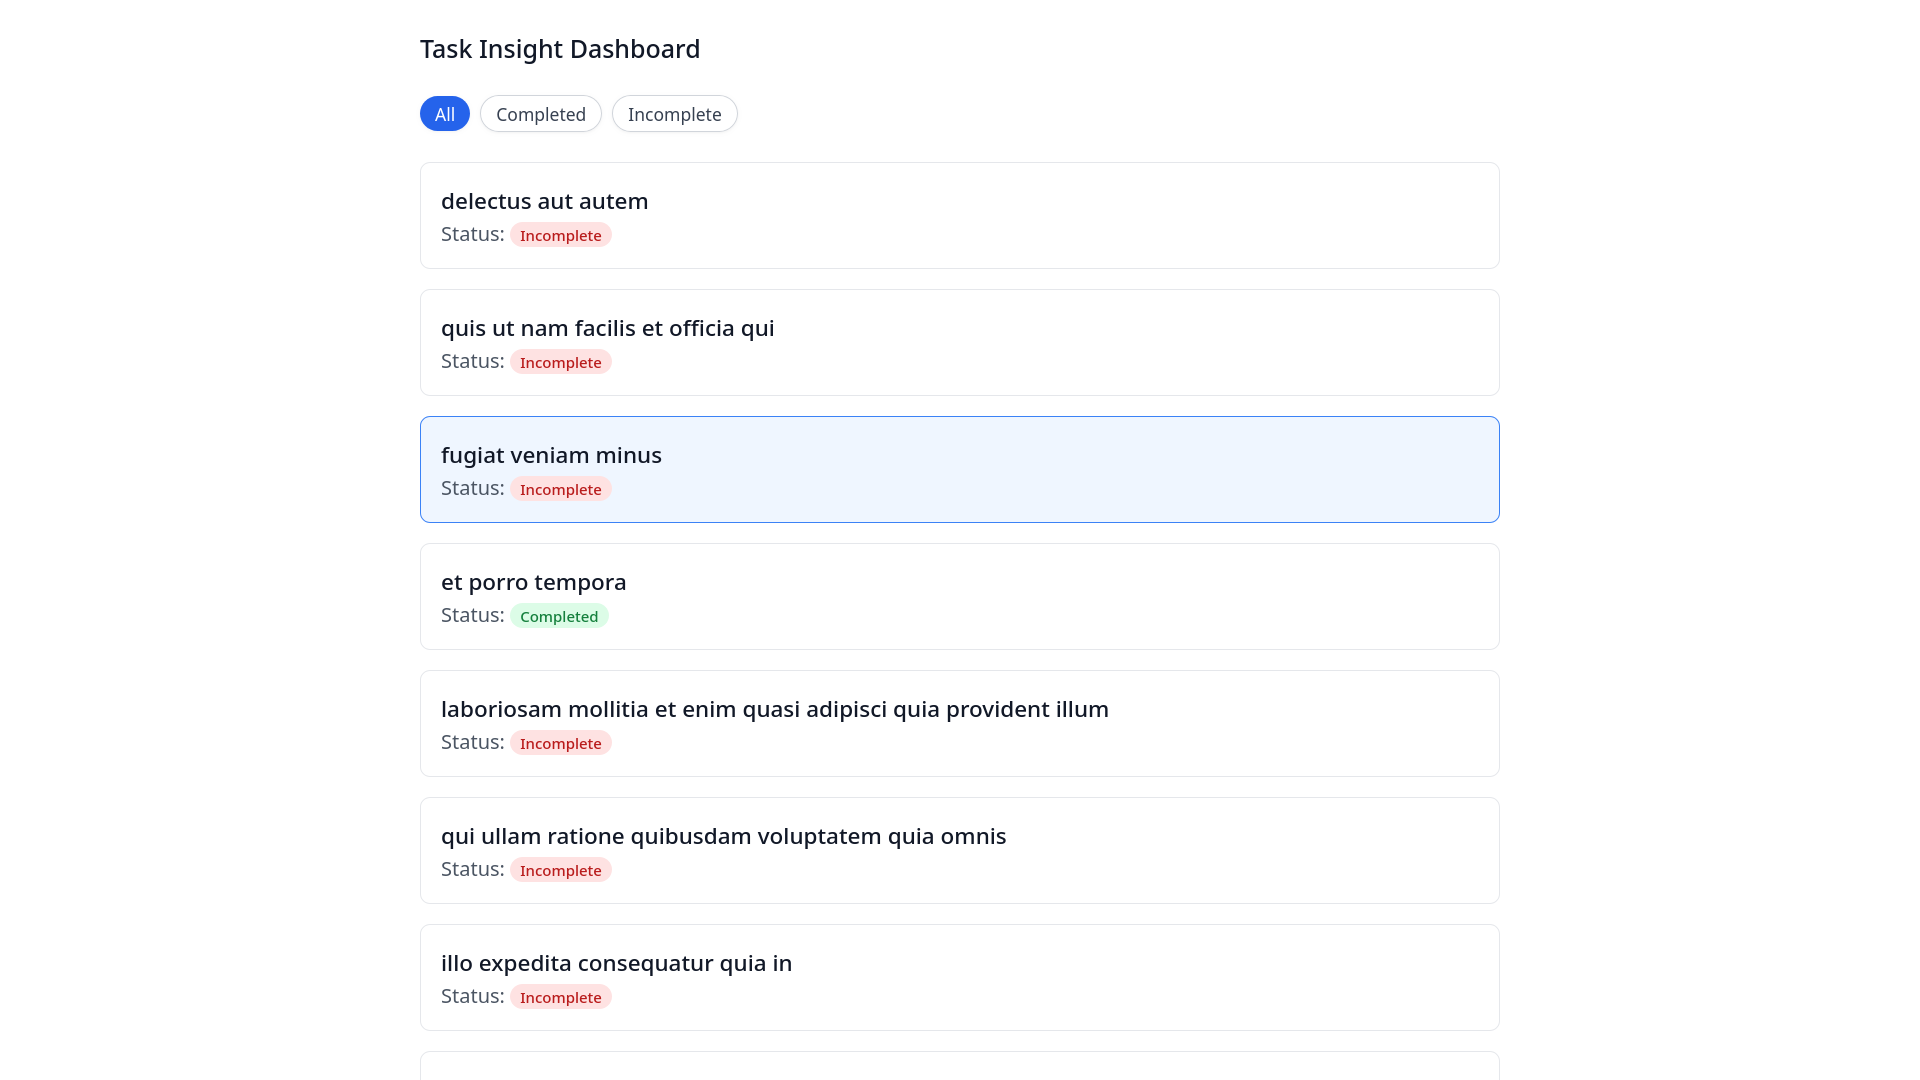
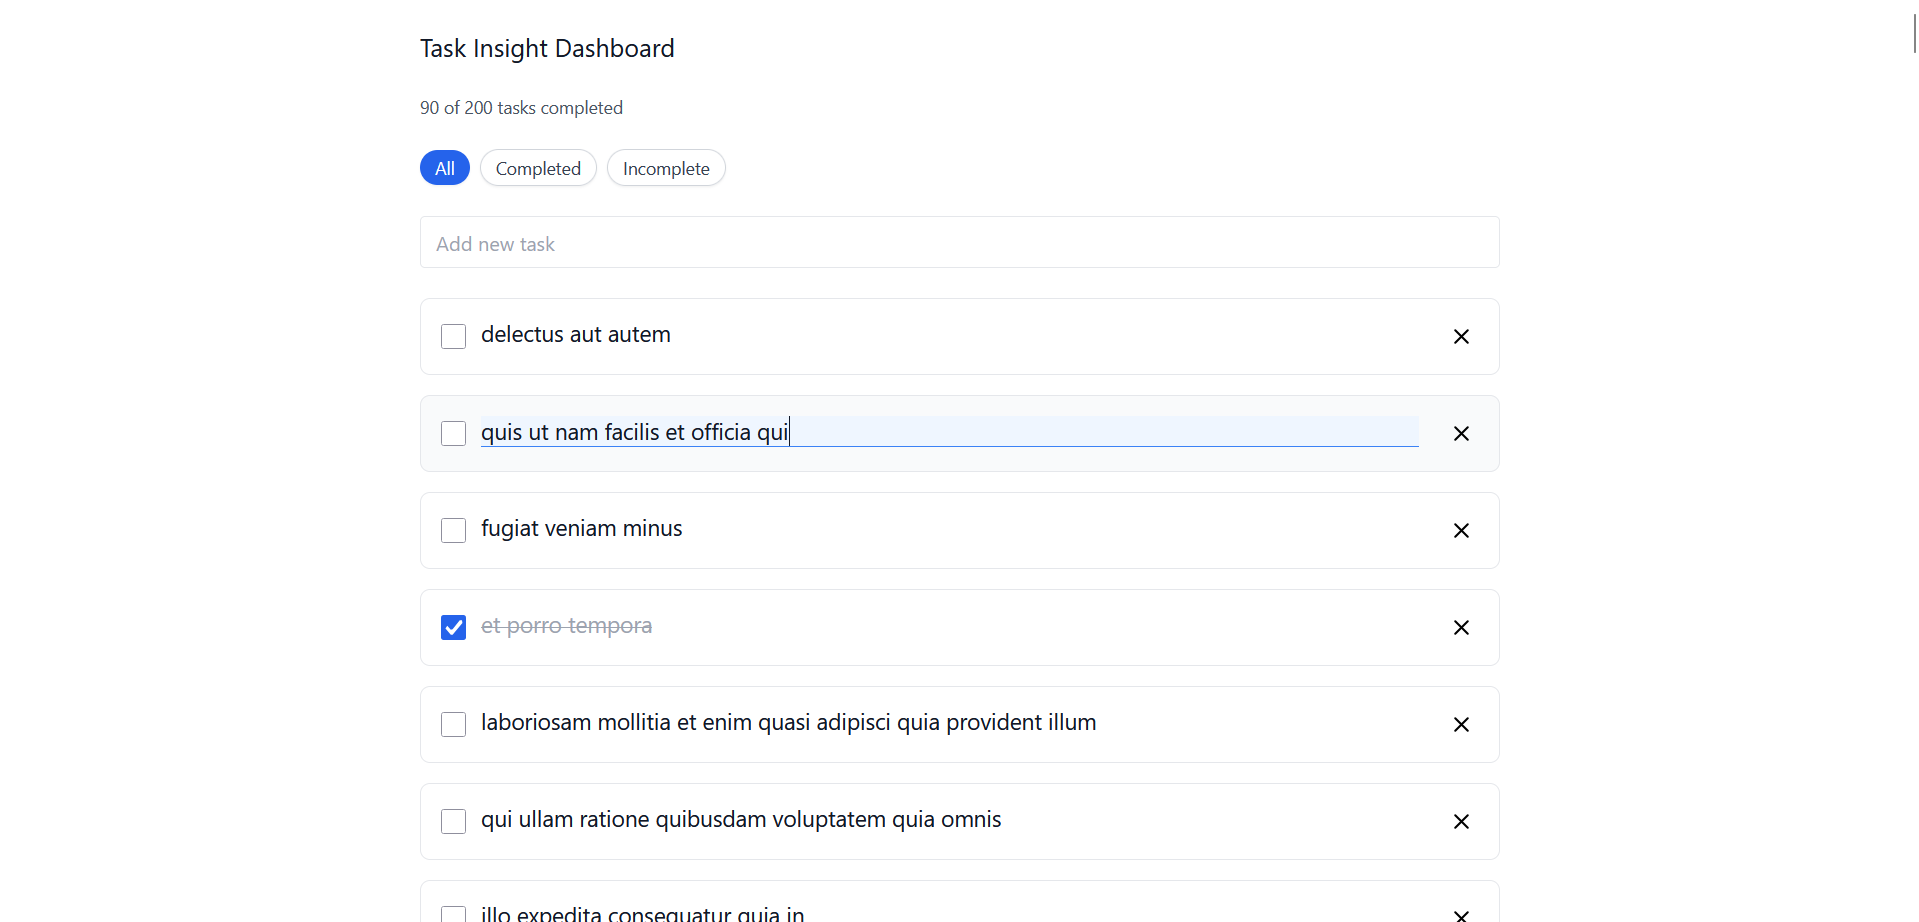
docs: update README to reflect full CRUD, TypeScript migration, and TDD features

diff --git a/README.md b/README.md
@@ -1,67 +1,173 @@
 # Task Insight Dashboard
-A React dashboard for viewing and filtering tasks, with persistent filter selection and a responsive layout.
 
-## Motivation
-My motivation was to build a React app from the ground up, practicing reusable component design, React workflows, and Tailwind CSS styling. This project helped strengthen my front-end development skills through a small but complete application.
+React • TypeScript • Tailwind CSS • Vitest • React Testing Library
 
-## Features
-- Fetches a list of tasks from a public example API for developers.
-- Filter tasks by completion status (All / Completed / Incomplete).
-- Persist the selected task filter across page reloads using localStorage.
-- Responsive layout that adapts to different screen sizes using Tailwind CSS.
+A responsive task management dashboard built with **React, TypeScript, and Tailwind CSS**.
+The application allows users to add, edit, delete, and filter tasks while tracking completion progress in a clean, accessible interface.
 
-## Tech Stack
-- React (Functional Components, Hooks)
-- JavaScript (ES6+)
-- HTML5 & CSS3
-- Tailwind CSS
-- LocalStorage for state persistence
-- Fetch API for retrieving tasks
-- Vitest & React Testing Library for testing
-
-## Project Structure
-- `src/components/` – contains components like `TaskFilter`, `TaskCard`, and `TaskList`
-- `src/tests/` – global test setup (`setup.js`)
-- `App.jsx` – root component
-- `App.test.jsx` – main test suite for the App component
-- `main.jsx` – application entry point
-
-## Demo
-Check out the live demo: [Task Insight Dashboard Live](https://task-insight-dashboard.netlify.app/)
+**Live Demo:**
+https://task-insight-dashboard.netlify.app/
 
 ![Task Insight Dashboard Screenshot](assets/screenshot.png)
+
 *Responsive layout adapts to different screen sizes.*
+
+## Features
+
+* Fetches an initial list of tasks from a public example API for developers.
+* Add new tasks.
+* Edit task titles inline.
+* Delete tasks.
+* Toggle task completion.
+* Filter tasks by completion status (All / Completed / Incomplete).
+* Persist the selected task filter across page reloads using `localStorage`.
+* Responsive layout that adapts to different screen sizes using Tailwind CSS.
+* Accessible UI using ARIA attributes.
+## Tech Stack
+
+### Frontend
+
+* **React** (Functional Components, Hooks)
+* **TypeScript**
+* **Vite**
+
+### Styling
+
+* **Tailwind CSS**
+
+### Testing
+
+* **Vitest**
+* **React Testing Library**
+
+### Data & APIs
+
+* **Fetch API**
+* **JSONPlaceholder API** *(used to load example tasks on initial app load)*
+
+### Browser Storage
+
+* **LocalStorage** for persisting UI state
+
+## Motivation
+
+My goal with this project was to build a React application from the ground up while practicing **component-based architecture, modern React workflows, and utility-first styling with Tailwind CSS**.
+
+As the project evolved, I expanded it by adding **TypeScript for type safety**, implementing **CRUD functionality**, and strengthening the codebase with **testing using Vitest and React Testing Library**.
+
+This project represents a small but complete front-end application that demonstrates modern React development practices.
+
+## Project Structure
+
+* `src/components/` – reusable UI components (`TaskCard`, `TaskList`, `TaskFilter`, `AddTask`)
+* `src/types.ts` – shared TypeScript types and domain models
+* `src/tests/` – test setup and test utilities
+* `App.tsx` – root application component
+* `App.test.jsx` – main test suite for the App component
+* `main.tsx` – application entry point
 
 ## Installation
 
 ### Prerequisites
-- Node.js 22.20  
+
+* Node.js 22.20
   (Recommended: install via [nvm](https://github.com/nvm-sh/nvm))
 
 ### Steps
-1. Clone the repo: `git clone https://github.com/khanm3/task-insight-dashboard.git`
-2. `cd task-insight-dashboard`
-3. Use the correct Node version: `nvm use`
-4. Install dependencies: `npm install`
-5. Start the app: `npm run dev`
 
-## Running Tests
-- Run all tests: `npm test`
-- Includes tests for task filter functionality and persistence across page reloads.
-- One feature (task filter persistence) was developed using Test-Driven Development (TDD) principles.
+1. Clone the repository:
+
+```
+git clone https://github.com/khanm3/task-insight-dashboard.git
+```
+
+2. Navigate to the project directory:
+
+```
+cd task-insight-dashboard
+```
+
+3. Use the correct Node version:
+
+```
+nvm use
+```
+
+4. Install dependencies:
+
+```
+npm install
+```
+
+5. Start the development server:
+
+```
+npm run dev
+```
+
+## Testing
+
+Run the test suite:
+
+```
+npm test
+```
+
+The project includes a comprehensive test suite built with **Vitest** and **React Testing Library**.
+
+Most features in the application were developed using **Test-Driven Development (TDD)**. Tests were written first to define expected behavior, followed by implementation to satisfy those tests.
+
+### What the tests cover
+
+The test suite verifies key application behaviors including:
+
+* Rendering of the dashboard UI
+* Fetching and displaying tasks from the API
+* Task filtering (All / Completed / Incomplete)
+* Filter persistence using `localStorage`
+* Task completion toggling
+* Inline task editing (Enter, Escape, blur behaviors)
+* Switching edit focus between tasks
+* Task deletion
+* Task creation with input validation
+
+### Testing approach
+
+Tests are written from a **user interaction perspective**, following recommended practices from React Testing Library:
+
+* Queries prioritize accessible roles (`getByRole`, `findByRole`)
+* User interactions are simulated with `userEvent`
+* External APIs are mocked to isolate application logic
+* Preconditions, user actions, and postconditions are explicitly verified
+
+This approach ensures that tests validate **real user behavior rather than implementation details**, making the test suite more resilient to refactoring.
 
 ## Usage
-- Click on a task to select it (the selected task is visually highlighted).
-- Change the task filter (All / Completed / Incomplete).
-- Reload the page — your selected filter will persist.
+
+* Add new tasks using the task input field.
+* Toggle task completion using the checkbox.
+* Edit task titles inline.
+* Delete tasks from the list.
+* Filter tasks by completion status (All / Completed / Incomplete).
+* Reload the page — the selected filter will persist.
 
 ## Key Learnings
-- Improved my understanding of React Hooks and effective state management in functional components.
-- Learned how to persist UI state across page reloads using localStorage.
-- Gained experience designing responsive layouts with Tailwind CSS and applying utility-first styling principles.
-- Strengthened skills in writing reliable tests with Vitest and React Testing Library, and learned how to apply TDD to guide development.
+
+* Strengthened understanding of **React Hooks and state management** in functional components.
+* Learned how to **persist UI state using localStorage**.
+* Implemented **type-safe frontend architecture using TypeScript**.
+* Gained experience designing **responsive layouts with Tailwind CSS**.
+* Improved testing skills with **Vitest and React Testing Library**.
+* Practiced structuring a small application using **reusable components and typed domain models**.
 
 ## Future Improvements
-- Add, edit, and delete tasks to implement full CRUD functionality using React and localStorage.
-- Enable custom statuses and priorities for tasks, expanding filtering options.
-- Optionally, integrate with a backend API in the future for cloud persistence.
+
+* Persist tasks using a backend API instead of in-memory state.
+* Add drag-and-drop task ordering.
+* Improve test coverage across additional components.
+* Implement dark mode.
+* Extract task logic into custom React hooks.
+
+## Author
+
+Built by **Mohammad Khan** as part of a front-end development portfolio.
